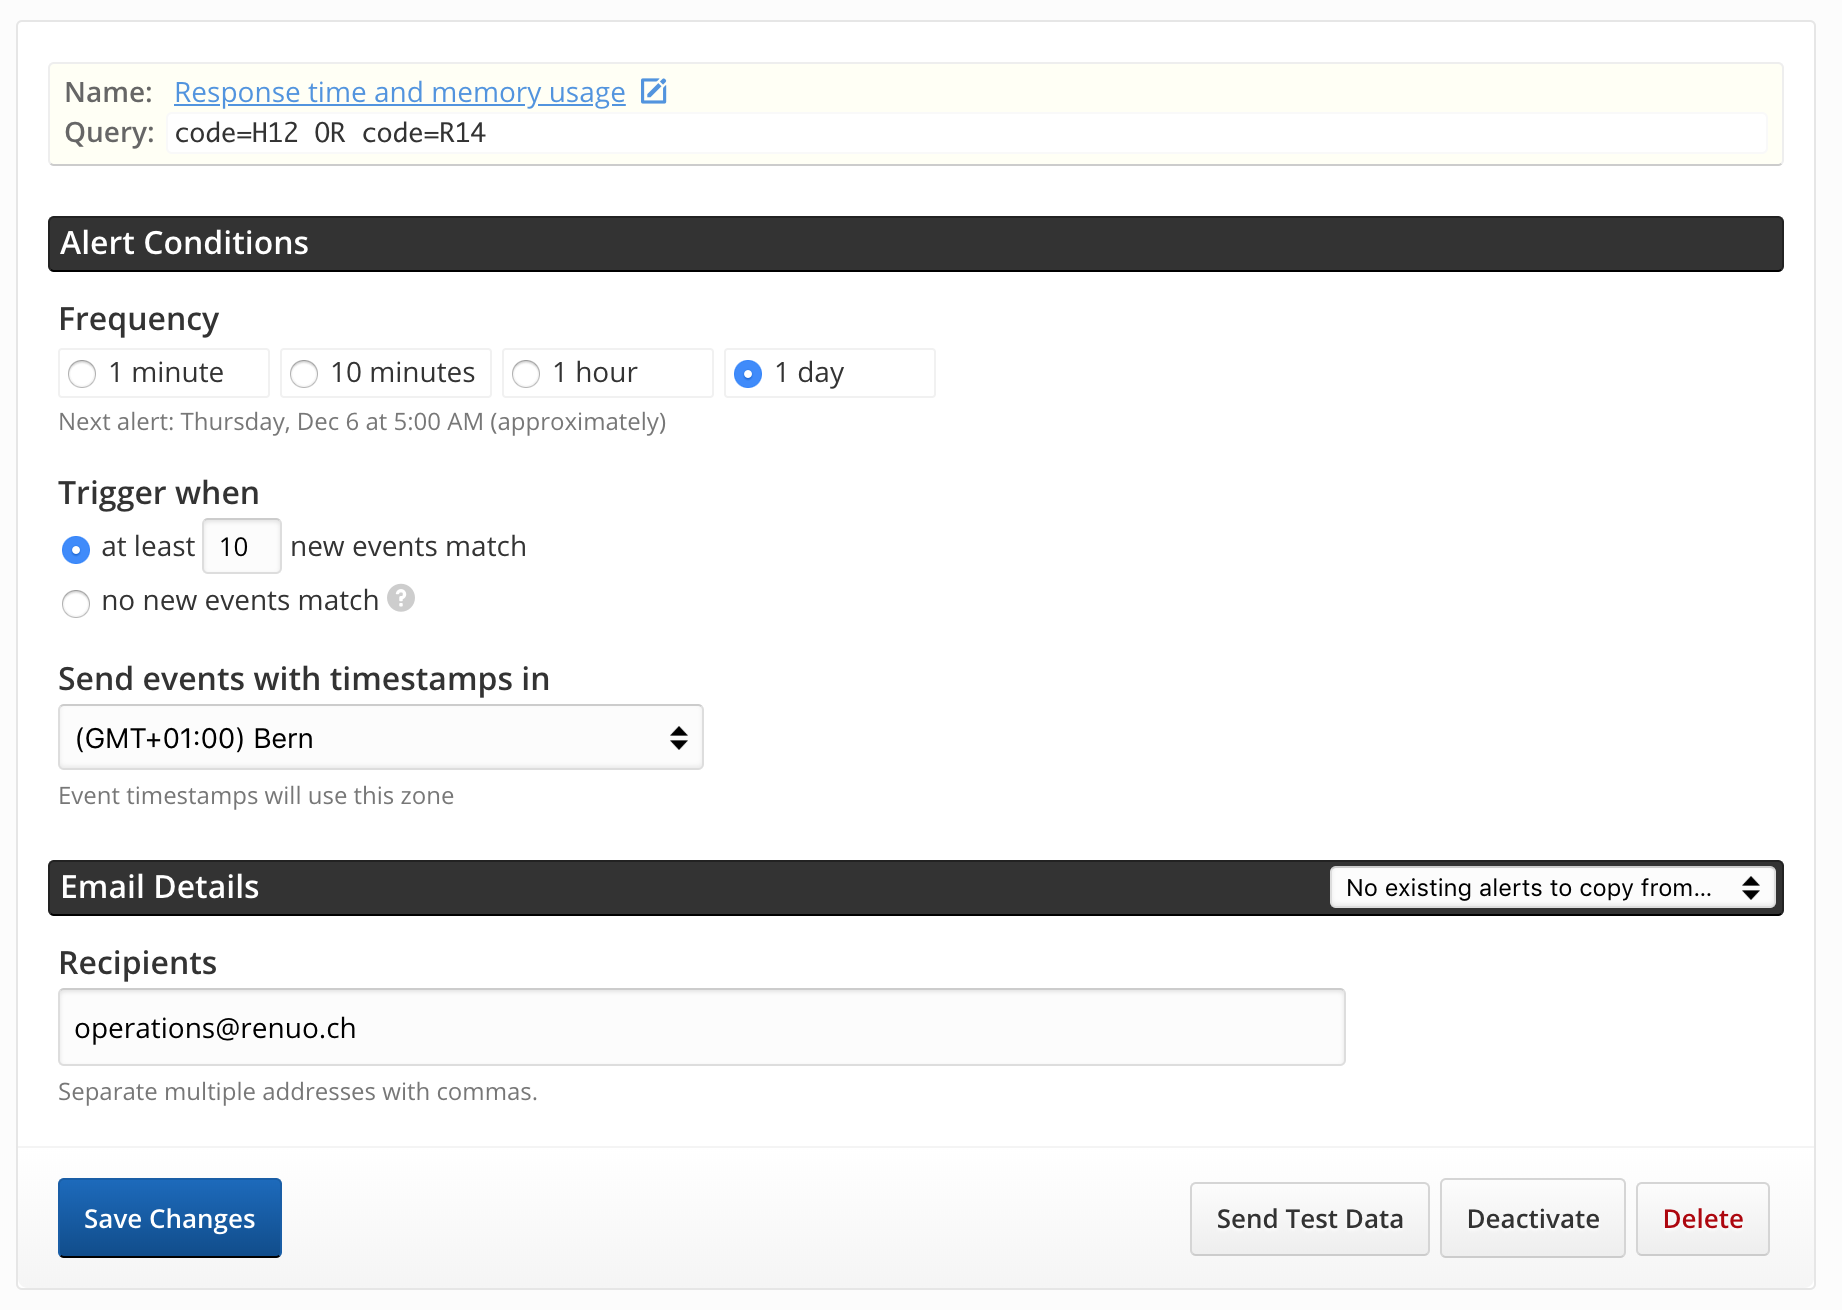
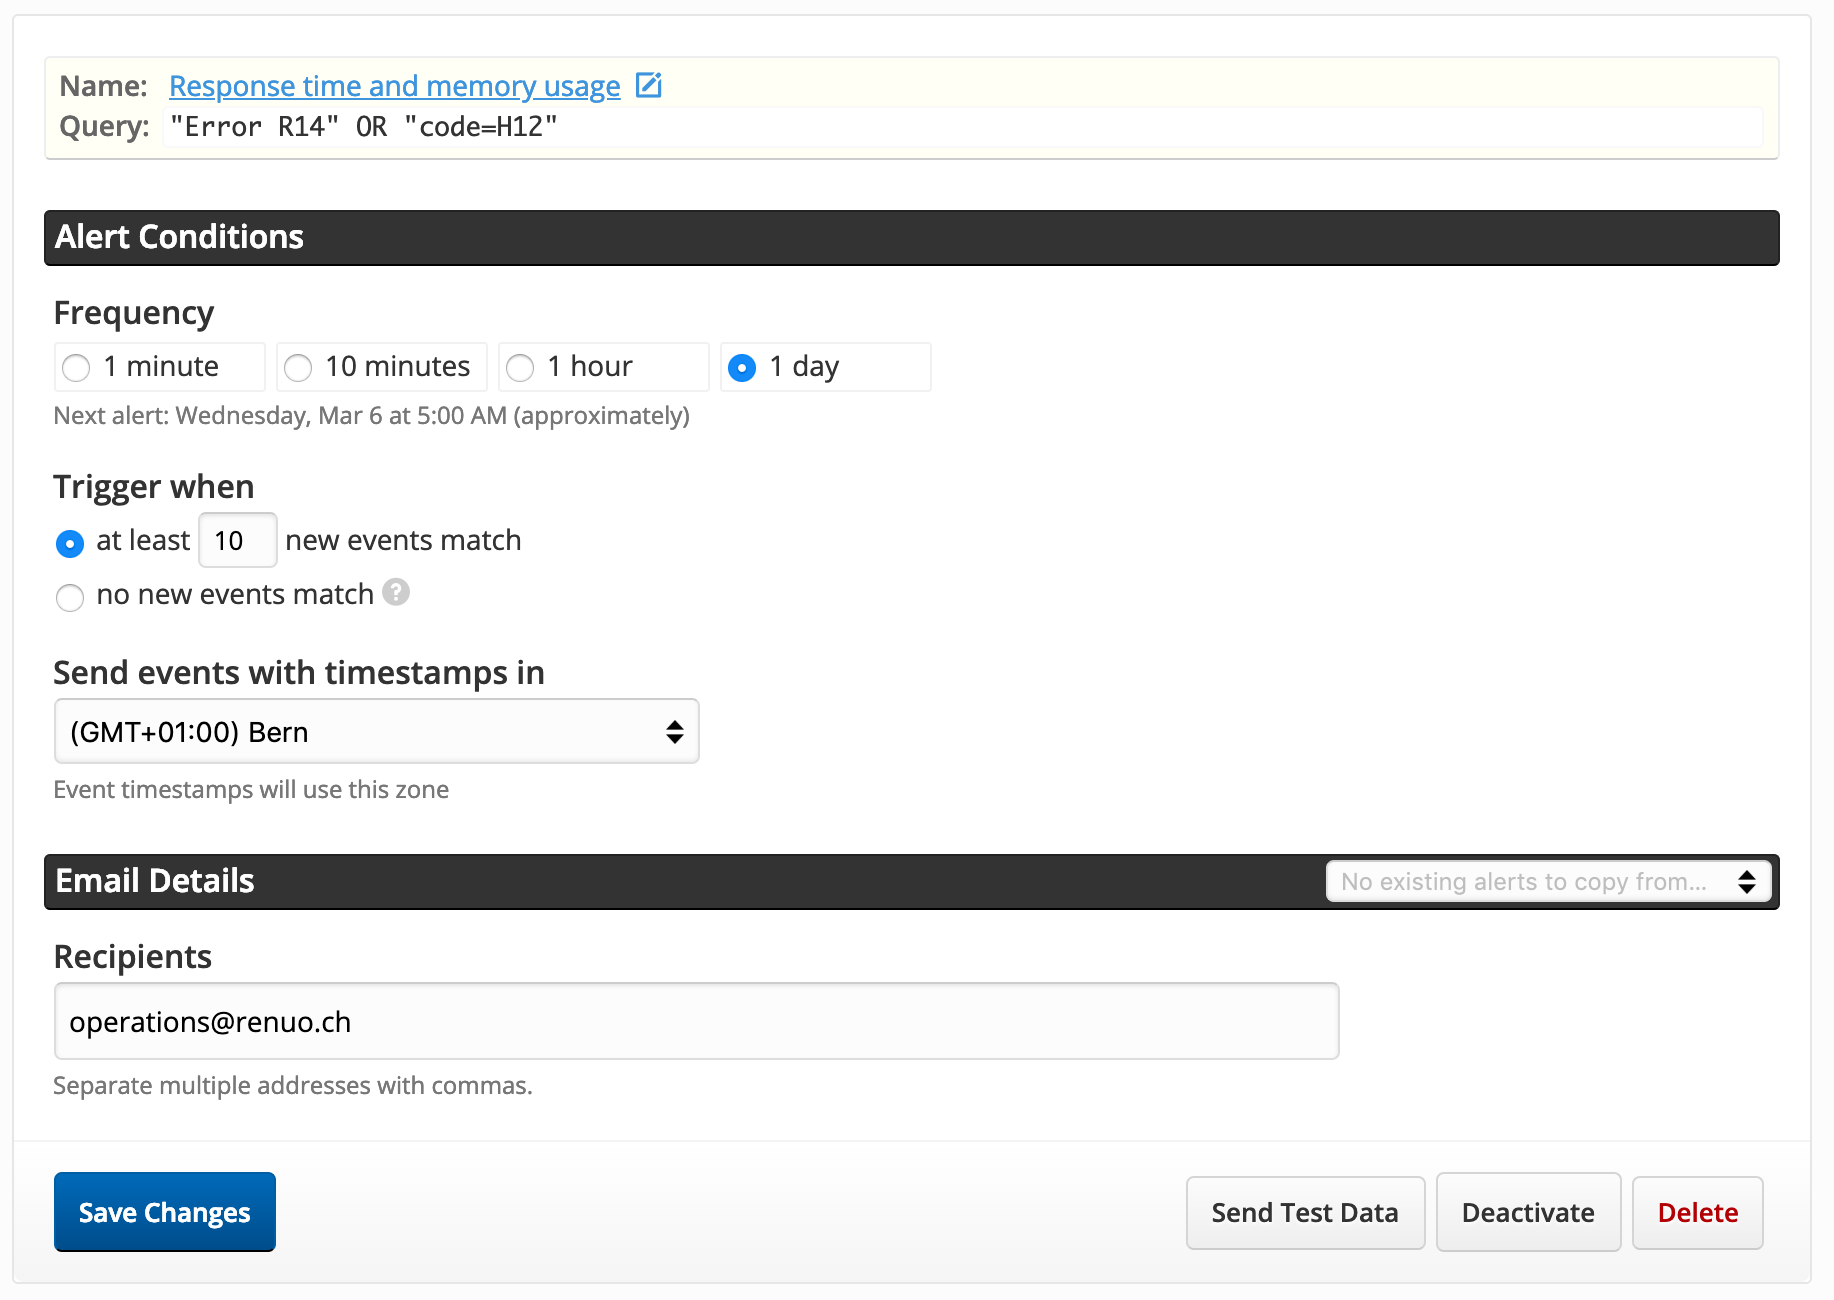
Update query in papertrail (#170)
* Update query

* Update query config

* Update finished_config

* Optim. image

diff --git a/ruby_on_rails/papertrail.md b/ruby_on_rails/papertrail.md
@@ -32,7 +32,7 @@ Click the litte pen above the query to edit it:
 
 * Name the search `Response time and memory usage`.
 
-* Add the query `code=H12 OR code=R14`.
+* Add the query `"Error R14" OR "code=H12"`.
 
 * Click the `Update Search` button.
 
